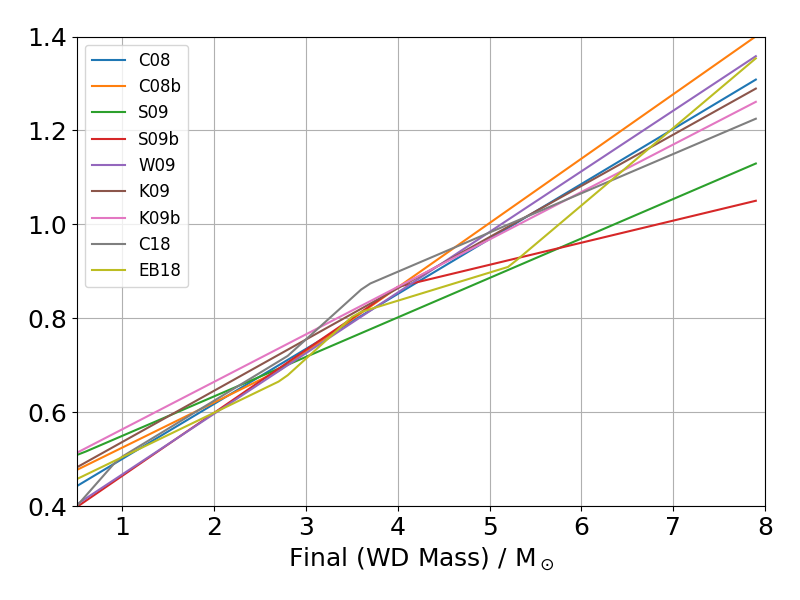
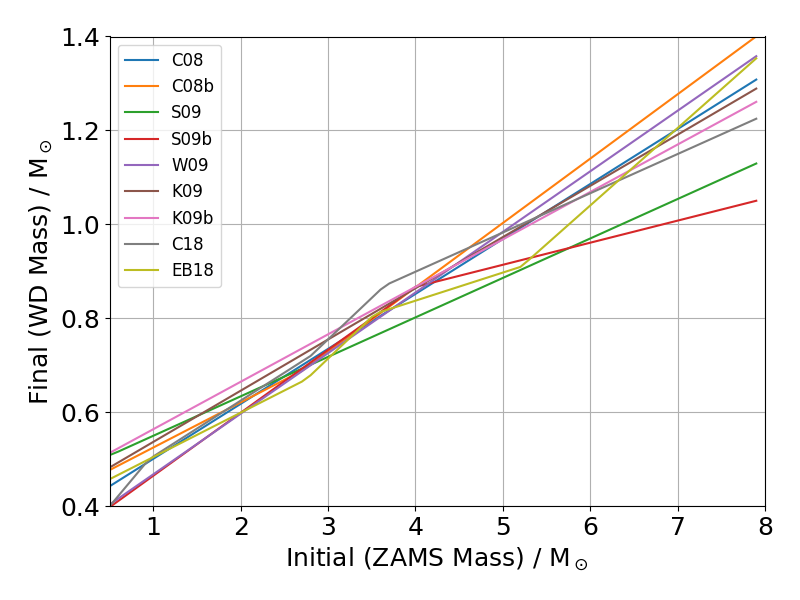
wrong x-y labels in ifmr plot

diff --git a/plot_ifmrs.py b/plot_ifmrs.py
@@ -27,7 +27,7 @@ plt.xlim(0.5, 8)
 plt.ylim(0.4, 1.4)
 
 plt.xlabel(r"Initial (ZAMS Mass) / M$_\odot$")
-plt.xlabel(r"Final (WD Mass) / M$_\odot$")
+plt.ylabel(r"Final (WD Mass) / M$_\odot$")
 
 plt.tight_layout()
 plt.savefig("ifmrs.png")
